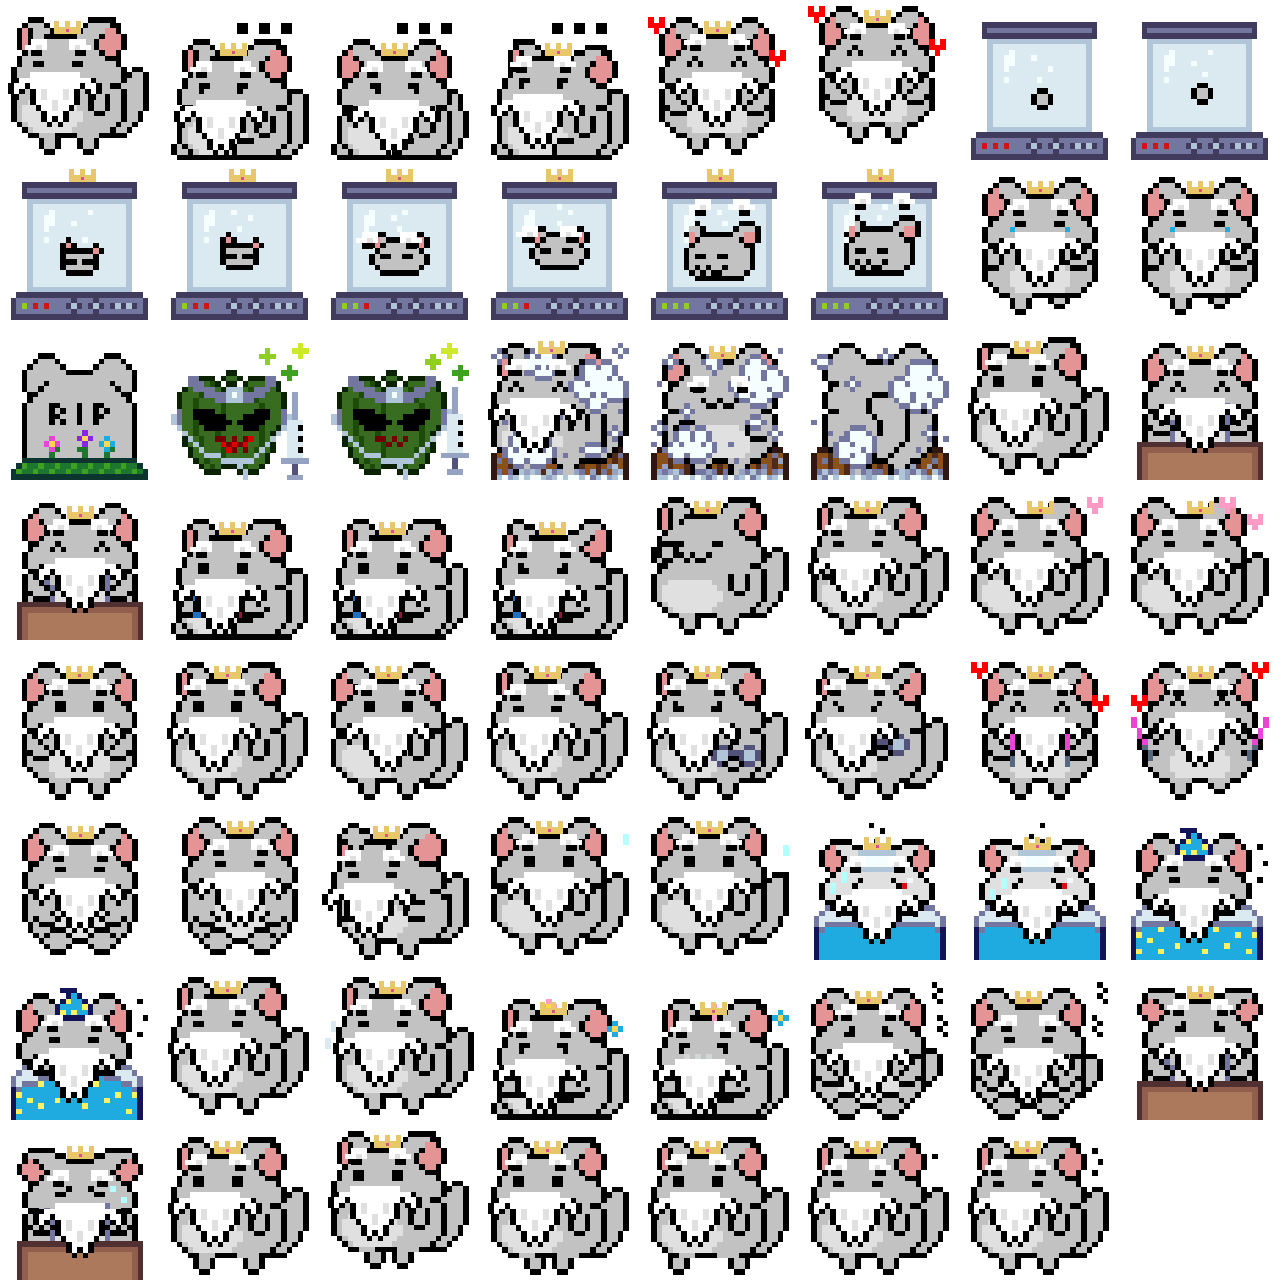
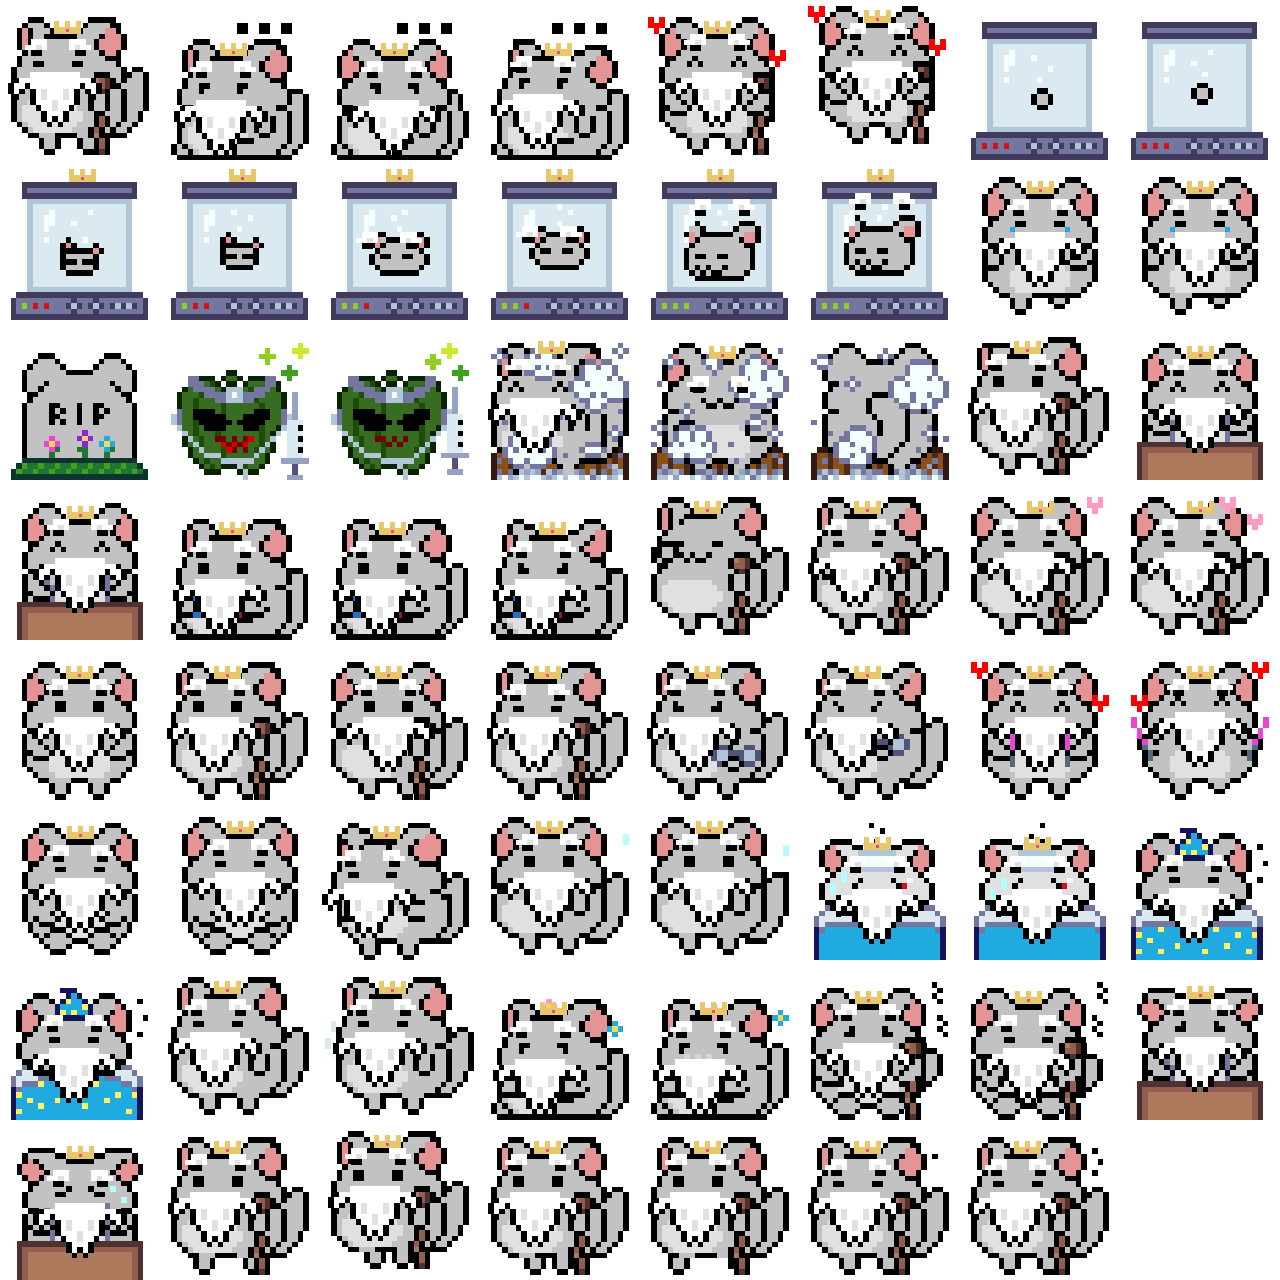
Added the Sage's Cane and Wizard Staff Art with Grip Anchors

diff --git a/src/game/scene/head.ts b/src/game/scene/head.ts
@@ -15,6 +15,13 @@
 //   • `beard` — where a sage's beard hangs (bottom-centre, like the brows):
 //     centred on the mouth, its top row the mouth's top row, so the moustache
 //     covers the mouth and the beard falls down the chest.
+//   • `cane` — where a sage's cane stands (bottom-centre, like the beard): its
+//     ferrule on the floor beside the feet, its shaft running up through the
+//     near paw and its knob resting on top of it. `null` on every frame whose
+//     paws are busy — eating, at tea, gaming, grooming, bathing, meditating,
+//     asleep, dead — and on the free-pawed frames that only ever play beside
+//     those, so the cane never pops in and out mid-clip. `behind` would mark a
+//     pose that holds it behind the body; no frame does yet.
 //   • `nightcap` — the art already wears a hat here, so no cosmetic goes on
 //     top of it.
 //
@@ -23,7 +30,8 @@
 //
 // Generated by `npm run head-anchors` and reviewed on its contact sheet; the
 // null frames are hand-set, as are the dust bath's second and third frames
-// and groom1, where the dust or a paw hides an eye or the mouth.
+// and groom1, where the dust or a paw hides an eye or the mouth. The cane's
+// points come from the script's hand-set grip table, frame by frame.
 
 import type { FrameName } from "../atlas.generated";
 
@@ -32,16 +40,17 @@ export type HeadAnchor = {
   y: number;
   brows: { x: number; y: number };
   beard: { x: number; y: number };
+  cane: { x: number; y: number; behind?: true } | null;
   nightcap?: true;
 };
 
 export const HEAD_ANCHORS: Partial<Record<FrameName, HeadAnchor | null>> = {
-  blink: { x: -13, y: -126, brows: { x: -22, y: -104 }, beard: { x: -25, y: -33 } },
-  bored1: { x: -7, y: -104, brows: { x: -17, y: -82 }, beard: { x: -19, y: -5 } },
-  bored2: { x: -6, y: -104, brows: { x: -6, y: -82 }, beard: { x: -6, y: -5 } },
-  bored3: { x: -2, y: -104, brows: { x: -17, y: -87 }, beard: { x: -22, y: -11 } },
-  cheer1: { x: -2, y: -126, brows: { x: -2, y: -109 }, beard: { x: -2, y: -33 } },
-  cheer2: { x: -2, y: -137, brows: { x: -2, y: -120 }, beard: { x: -2, y: -44 } },
+  blink: { x: -13, y: -126, brows: { x: -22, y: -104 }, beard: { x: -25, y: -33 }, cane: { x: 22, y: -5 } },
+  bored1: { x: -7, y: -104, brows: { x: -17, y: -82 }, beard: { x: -19, y: -5 }, cane: null },
+  bored2: { x: -6, y: -104, brows: { x: -6, y: -82 }, beard: { x: -6, y: -5 }, cane: null },
+  bored3: { x: -2, y: -104, brows: { x: -17, y: -87 }, beard: { x: -22, y: -11 }, cane: null },
+  cheer1: { x: -2, y: -126, brows: { x: -2, y: -109 }, beard: { x: -2, y: -33 }, cane: { x: 42, y: -5 } },
+  cheer2: { x: -2, y: -137, brows: { x: -2, y: -120 }, beard: { x: -2, y: -44 }, cane: { x: 42, y: -16 } },
   clone1: null,
   clone2: null,
   clone3: null,
@@ -50,53 +59,53 @@ export const HEAD_ANCHORS: Partial<Record<FrameName, HeadAnchor | null>> = {
   clone6: null,
   clone7: null,
   clone8: null,
-  cry1: { x: 0, y: -126, brows: { x: 0, y: -104 }, beard: { x: 0, y: -33 } },
-  cry2: { x: 0, y: -126, brows: { x: 0, y: -104 }, beard: { x: 0, y: -33 } },
+  cry1: { x: 0, y: -126, brows: { x: 0, y: -104 }, beard: { x: 0, y: -33 }, cane: null },
+  cry2: { x: 0, y: -126, brows: { x: 0, y: -104 }, beard: { x: 0, y: -33 }, cane: null },
   dead1: null,
   drpepper1: null,
   drpepper2: null,
-  dustbath1: { x: -9, y: -126, brows: { x: -22, y: -104 }, beard: { x: -25, y: -27 } },
-  dustbath2: { x: 2, y: -121, brows: { x: 0, y: -102 }, beard: { x: 0, y: -27 } }, // one eye under the dust: brows over it, beard on the mouth
-  dustbath3: { x: 2, y: -121, brows: { x: 0, y: -102 }, beard: { x: 0, y: -27 } }, // dustbath2's pose, head under the dust
-  earTwitch: { x: -13, y: -126, brows: { x: -22, y: -109 }, beard: { x: -25, y: -33 } },
-  eat1: { x: 0, y: -121, brows: { x: 0, y: -104 }, beard: { x: 0, y: -27 } },
-  eat2: { x: 0, y: -121, brows: { x: 0, y: -104 }, beard: { x: 0, y: -27 } },
-  game1: { x: -7, y: -105, brows: { x: -16, y: -82 }, beard: { x: -19, y: -6 } },
-  game2: { x: -7, y: -105, brows: { x: -16, y: -82 }, beard: { x: -19, y: -6 } },
-  game3: { x: -7, y: -105, brows: { x: -16, y: -82 }, beard: { x: -19, y: -6 } },
-  groom1: { x: -13, y: -126, brows: { x: -22, y: -104 }, beard: { x: -25, y: -33 } }, // groom2's head, one eye and the mouth behind the paw
-  groom2: { x: -13, y: -126, brows: { x: -22, y: -104 }, beard: { x: -25, y: -33 } },
-  heart1: { x: 0, y: -126, brows: { x: -11, y: -104 }, beard: { x: -11, y: -33 } },
-  heart2: { x: 0, y: -126, brows: { x: -11, y: -104 }, beard: { x: -11, y: -33 } },
-  idleFront1: { x: 0, y: -121, brows: { x: 0, y: -104 }, beard: { x: 0, y: -28 } },
-  idleSide1: { x: -12, y: -121, brows: { x: -22, y: -104 }, beard: { x: -25, y: -28 } },
-  idleSide2: { x: -11, y: -121, brows: { x: -11, y: -104 }, beard: { x: -11, y: -28 } },
-  idleSide3: { x: -12, y: -121, brows: { x: -22, y: -99 }, beard: { x: -25, y: -28 } },
-  lift1: { x: -12, y: -121, brows: { x: -22, y: -104 }, beard: { x: -25, y: -28 } },
-  lift2: { x: -12, y: -121, brows: { x: -22, y: -104 }, beard: { x: -27, y: -28 } },
-  lights1: { x: 0, y: -121, brows: { x: 0, y: -104 }, beard: { x: 0, y: -28 } },
-  lights2: { x: 0, y: -121, brows: { x: 0, y: -104 }, beard: { x: 0, y: -33 } },
-  meditate1: { x: 0, y: -121, brows: { x: 0, y: -98 }, beard: { x: 0, y: -27 } },
-  meditate2: { x: 0, y: -126, brows: { x: 0, y: -104 }, beard: { x: 0, y: -33 } },
-  pekori: { x: -14, y: -121, brows: { x: -28, y: -93 }, beard: { x: -31, y: -22 } },
-  shiver1: { x: -11, y: -126, brows: { x: -11, y: -109 }, beard: { x: -11, y: -33 } },
-  shiver2: { x: -11, y: -126, brows: { x: -11, y: -109 }, beard: { x: -11, y: -33 } },
-  sick1: { x: -3, y: -110, brows: { x: -3, y: -87 }, beard: { x: -3, y: -16 } },
-  sick2: { x: -3, y: -110, brows: { x: -3, y: -87 }, beard: { x: -3, y: -16 } },
-  sleep1: { x: -5, y: -116, brows: { x: -5, y: -88 }, beard: { x: -5, y: -17 }, nightcap: true },
-  sleep2: { x: -5, y: -116, brows: { x: -5, y: -88 }, beard: { x: -5, y: -17 }, nightcap: true },
-  sneeze1: { x: -13, y: -126, brows: { x: -22, y: -104 }, beard: { x: -25, y: -33 } },
-  sneeze2: { x: -7, y: -126, brows: { x: -16, y: -104 }, beard: { x: -19, y: -33 } },
-  tea1: { x: -7, y: -105, brows: { x: -17, y: -82 }, beard: { x: -20, y: -6 } },
-  tea2: { x: -7, y: -105, brows: { x: -17, y: -82 }, beard: { x: -20, y: -6 } },
-  tired1: { x: -11, y: -116, brows: { x: -11, y: -99 }, beard: { x: -11, y: -22 } },
-  tired2: { x: -11, y: -116, brows: { x: -11, y: -88 }, beard: { x: -11, y: -17 } },
-  unhappyEat1: { x: 0, y: -121, brows: { x: 0, y: -104 }, beard: { x: 0, y: -28 } },
-  unhappyEat2: { x: 0, y: -121, brows: { x: 0, y: -93 }, beard: { x: 0, y: -22 } },
-  walk1: { x: -13, y: -126, brows: { x: -22, y: -109 }, beard: { x: -25, y: -33 } },
-  walk2: { x: -13, y: -132, brows: { x: -22, y: -115 }, beard: { x: -25, y: -39 } },
-  walk3: { x: -13, y: -126, brows: { x: -22, y: -109 }, beard: { x: -25, y: -33 } },
-  walk4: { x: -13, y: -126, brows: { x: -22, y: -109 }, beard: { x: -25, y: -33 } },
-  yawn1: { x: -13, y: -126, brows: { x: -22, y: -104 }, beard: { x: -25, y: -33 } },
-  yawn2: { x: -13, y: -126, brows: { x: -22, y: -104 }, beard: { x: -25, y: -33 } },
+  dustbath1: { x: -9, y: -126, brows: { x: -22, y: -104 }, beard: { x: -25, y: -27 }, cane: null },
+  dustbath2: { x: 2, y: -121, brows: { x: 0, y: -102 }, beard: { x: 0, y: -27 }, cane: null }, // one eye under the dust: brows over it, beard on the mouth
+  dustbath3: { x: 2, y: -121, brows: { x: 0, y: -102 }, beard: { x: 0, y: -27 }, cane: null }, // dustbath2's pose, head under the dust
+  earTwitch: { x: -13, y: -126, brows: { x: -22, y: -109 }, beard: { x: -25, y: -33 }, cane: { x: 22, y: -5 } },
+  eat1: { x: 0, y: -121, brows: { x: 0, y: -104 }, beard: { x: 0, y: -27 }, cane: null },
+  eat2: { x: 0, y: -121, brows: { x: 0, y: -104 }, beard: { x: 0, y: -27 }, cane: null },
+  game1: { x: -7, y: -105, brows: { x: -16, y: -82 }, beard: { x: -19, y: -6 }, cane: null },
+  game2: { x: -7, y: -105, brows: { x: -16, y: -82 }, beard: { x: -19, y: -6 }, cane: null },
+  game3: { x: -7, y: -105, brows: { x: -16, y: -82 }, beard: { x: -19, y: -6 }, cane: null },
+  groom1: { x: -13, y: -126, brows: { x: -22, y: -104 }, beard: { x: -25, y: -33 }, cane: { x: 22, y: -5 } }, // groom2's head, one eye and the mouth behind the paw
+  groom2: { x: -13, y: -126, brows: { x: -22, y: -104 }, beard: { x: -25, y: -33 }, cane: { x: 22, y: -5 } },
+  heart1: { x: 0, y: -126, brows: { x: -11, y: -104 }, beard: { x: -11, y: -33 }, cane: { x: 22, y: -5 } },
+  heart2: { x: 0, y: -126, brows: { x: -11, y: -104 }, beard: { x: -11, y: -33 }, cane: { x: 22, y: -5 } },
+  idleFront1: { x: 0, y: -121, brows: { x: 0, y: -104 }, beard: { x: 0, y: -28 }, cane: null }, // the greeting's middle frame, cane-free like the bows around it
+  idleSide1: { x: -12, y: -121, brows: { x: -22, y: -104 }, beard: { x: -25, y: -28 }, cane: { x: 23, y: 0 } },
+  idleSide2: { x: -11, y: -121, brows: { x: -11, y: -104 }, beard: { x: -11, y: -28 }, cane: { x: 23, y: 0 } },
+  idleSide3: { x: -12, y: -121, brows: { x: -22, y: -99 }, beard: { x: -25, y: -28 }, cane: { x: 23, y: 0 } },
+  lift1: { x: -12, y: -121, brows: { x: -22, y: -104 }, beard: { x: -25, y: -28 }, cane: null },
+  lift2: { x: -12, y: -121, brows: { x: -22, y: -104 }, beard: { x: -27, y: -28 }, cane: null },
+  lights1: { x: 0, y: -121, brows: { x: 0, y: -104 }, beard: { x: 0, y: -28 }, cane: null },
+  lights2: { x: 0, y: -121, brows: { x: 0, y: -104 }, beard: { x: 0, y: -33 }, cane: null },
+  meditate1: { x: 0, y: -121, brows: { x: 0, y: -98 }, beard: { x: 0, y: -27 }, cane: null },
+  meditate2: { x: 0, y: -126, brows: { x: 0, y: -104 }, beard: { x: 0, y: -33 }, cane: null },
+  pekori: { x: -14, y: -121, brows: { x: -28, y: -93 }, beard: { x: -31, y: -22 }, cane: null }, // the bow puts the eyes on the grip and the beard over it
+  shiver1: { x: -11, y: -126, brows: { x: -11, y: -109 }, beard: { x: -11, y: -33 }, cane: null },
+  shiver2: { x: -11, y: -126, brows: { x: -11, y: -109 }, beard: { x: -11, y: -33 }, cane: null },
+  sick1: { x: -3, y: -110, brows: { x: -3, y: -87 }, beard: { x: -3, y: -16 }, cane: null },
+  sick2: { x: -3, y: -110, brows: { x: -3, y: -87 }, beard: { x: -3, y: -16 }, cane: null },
+  sleep1: { x: -5, y: -116, brows: { x: -5, y: -88 }, beard: { x: -5, y: -17 }, cane: null, nightcap: true },
+  sleep2: { x: -5, y: -116, brows: { x: -5, y: -88 }, beard: { x: -5, y: -17 }, cane: null, nightcap: true },
+  sneeze1: { x: -13, y: -126, brows: { x: -22, y: -104 }, beard: { x: -25, y: -33 }, cane: null },
+  sneeze2: { x: -7, y: -126, brows: { x: -16, y: -104 }, beard: { x: -19, y: -33 }, cane: null },
+  tea1: { x: -7, y: -105, brows: { x: -17, y: -82 }, beard: { x: -20, y: -6 }, cane: null },
+  tea2: { x: -7, y: -105, brows: { x: -17, y: -82 }, beard: { x: -20, y: -6 }, cane: null },
+  tired1: { x: -11, y: -116, brows: { x: -11, y: -99 }, beard: { x: -11, y: -22 }, cane: { x: 34, y: 0 } },
+  tired2: { x: -11, y: -116, brows: { x: -11, y: -88 }, beard: { x: -11, y: -17 }, cane: { x: 34, y: 0 } },
+  unhappyEat1: { x: 0, y: -121, brows: { x: 0, y: -104 }, beard: { x: 0, y: -28 }, cane: null },
+  unhappyEat2: { x: 0, y: -121, brows: { x: 0, y: -93 }, beard: { x: 0, y: -22 }, cane: null },
+  walk1: { x: -13, y: -126, brows: { x: -22, y: -109 }, beard: { x: -25, y: -33 }, cane: { x: 22, y: -5 } },
+  walk2: { x: -13, y: -132, brows: { x: -22, y: -115 }, beard: { x: -25, y: -39 }, cane: { x: 22, y: -11 } },
+  walk3: { x: -13, y: -126, brows: { x: -22, y: -109 }, beard: { x: -25, y: -33 }, cane: { x: 22, y: -5 } },
+  walk4: { x: -13, y: -126, brows: { x: -22, y: -109 }, beard: { x: -25, y: -33 }, cane: { x: 22, y: -5 } },
+  yawn1: { x: -13, y: -126, brows: { x: -22, y: -104 }, beard: { x: -25, y: -33 }, cane: { x: 22, y: -5 } },
+  yawn2: { x: -13, y: -126, brows: { x: -22, y: -104 }, beard: { x: -25, y: -33 }, cane: { x: 22, y: -5 } },
 };

diff --git a/scripts/head-anchors.ts b/scripts/head-anchors.ts
@@ -1,10 +1,10 @@
 // Finds where the head is on every pet frame, for the table in
 // src/game/scene/head.ts (SPEC §10.5). Run `npm run head-anchors` after adding
 // pet frames; it prints candidate entries to paste, and a contact sheet with
-// the crown, an elder's brow tufts and a sage's beard drawn on every frame for a look before
-// committing.
+// the crown, an elder's brow tufts, a sage's beard and cane drawn on every
+// frame for a look before committing.
 //
-// Three things are read off the art:
+// Three things are read off the art, and one is set by hand:
 //
 //   • The hat anchor. The inner ears are pink in every frame the pet is drawn
 //     in; the two pink blobs in the top half of a frame are the ears, and the
@@ -23,6 +23,13 @@
 //   • A nightcap. When the skyline at the anchor column is a vivid colour the
 //     pet itself never is, the art already wears a hat, and a cosmetic drawn
 //     there would land on top of it.
+//   • The cane. A sage's cane stands in the near paw — the hanging arm at the
+//     flank of the side view, the right paw of the front view — with its knob
+//     resting on top of the paw and its shaft coming out underneath, down to
+//     the floor beside the feet. The paw is not found: CANE_GRIPS below says,
+//     frame by frame, which art column the shaft runs down and which row the
+//     paw's bottom outline sits on, and leaves out every frame whose paws are
+//     busy.
 //
 // Frames with no ears (the egg, the gravestone, the medicine) get no
 // candidate and wear nothing; a frame whose eyes or mouth are hidden prints a
@@ -40,6 +47,56 @@ const CONTACT = new URL("./head-anchors-contact.png", import.meta.url);
 const BROW_GAP = 5;
 const BROWS = SPRITE_FRAMES.elderBrows;
 const BEARD = SPRITE_FRAMES.sageBeard;
+const CANE = SPRITE_FRAMES.sageCane;
+/** The art is drawn at this many frame pixels per art pixel (scripts/atlas.ts). */
+const ART_SCALE = 5.5;
+/** The cane sprite's column its shaft runs down, and its row the paw's bottom outline sits on. */
+const CANE_SHAFT = { col: 2, pawRow: 7 };
+const CANE_ROWS = 15;
+
+/**
+ * Where the near paw grips the cane, in art pixels of the frame: `col` is the
+ * column the shaft runs down, inside the paw, and `paw` the row of the paw's
+ * bottom outline. The sprite leaves its rows above that clear, so the frame's
+ * own paw shows through between the knob and the shaft.
+ *
+ * Every frame left out gets `cane: null`. Most have their paws busy — eating,
+ * drinking, gaming, grooming with both paws, holding the soap, bowing with
+ * the paws down, cheering with them up, hugging themselves, under the quilt or
+ * the dust, or dead. cry, lights, shiver and sneeze keep their paws free but
+ * play only beside busy frames (hungry, petted, dirty, sick), where a cane
+ * that came and went each loop would read as a glitch. groom keeps it: the far
+ * paw grooms, the near one holds on. pekori can't: the bow brings the closed
+ * eyes down onto the grip and the beard over it, so the whole greeting clip
+ * (pekori, idleFront1, pekori) goes without, rather than the cane popping in
+ * on the middle frame.
+ *
+ * The sprite's columns are five art pixels wide, so `col - 2` must be even
+ * for its cells to land on the frame's 5/6px cadence.
+ */
+const CANE_GRIPS: Partial<Record<FrameName, { col: number; paw: number }>> = {
+  blink: { col: 16, paw: 17 },
+  cheer1: { col: 20, paw: 17 },
+  cheer2: { col: 20, paw: 17 },
+  earTwitch: { col: 16, paw: 17 },
+  groom1: { col: 16, paw: 17 },
+  groom2: { col: 16, paw: 17 },
+  heart1: { col: 16, paw: 17 },
+  heart2: { col: 16, paw: 17 },
+  idleSide1: { col: 16, paw: 17 },
+  idleSide2: { col: 16, paw: 17 },
+  idleSide3: { col: 16, paw: 17 },
+  // The tired slump drops the paw a row; the cane stays planted and its
+  // shaft covers the paw's bottom outline instead.
+  tired1: { col: 18, paw: 17 },
+  tired2: { col: 18, paw: 17 },
+  walk1: { col: 16, paw: 17 },
+  walk2: { col: 16, paw: 17 },
+  walk3: { col: 16, paw: 17 },
+  walk4: { col: 16, paw: 17 },
+  yawn1: { col: 16, paw: 17 },
+  yawn2: { col: 16, paw: 17 },
+};
 
 const sheet = PNG.sync.read(readFileSync(SHEET));
 const { at } = rasterOf(sheet);
@@ -64,13 +121,35 @@ const petFrames = (): FrameName[] => {
 };
 
 type Point = { x: number; y: number };
-type Candidate = { name: FrameName; hat: (Point & { nightcap: boolean }) | null; brows: Point | null; beard: Point | null };
+type Candidate = {
+  name: FrameName;
+  hat: (Point & { nightcap: boolean }) | null;
+  brows: Point | null;
+  beard: Point | null;
+  cane: Point | null;
+};
+
+/**
+ * The cane's bottom-centre in head space, from where the paw grips it: its
+ * sprite is placed so its shaft column and paw row land on the frame's own
+ * art cells. A native frame can be a pixel shorter than its art rows add up
+ * to, and the ferrule then stops at the frame's bottom edge rather than
+ * under it.
+ */
+const cane = (name: FrameName): Point | null => {
+  const grip = CANE_GRIPS[name];
+  if (!grip) return null;
+  const f = SPRITE_FRAMES[name];
+  const left = Math.round((grip.col - CANE_SHAFT.col) * ART_SCALE);
+  const bottom = Math.min(Math.round((grip.paw - CANE_SHAFT.pawRow + CANE_ROWS) * ART_SCALE), f.h);
+  return { x: left + CANE.w / 2 - Math.floor(f.w / 2), y: bottom - f.h };
+};
 
 const candidate = (name: FrameName): Candidate => {
   const f = SPRITE_FRAMES[name];
   const frame = frameOf(name);
   const dip = earDip(frame);
-  if (!dip) return { name, hat: null, brows: null, beard: null };
+  if (!dip) return { name, hat: null, brows: null, beard: null, cane: null };
   const { centre, floor } = dip;
   let crown = 0;
   while (crown < f.h && frame.at(centre, crown)[3] === 0) crown++;
@@ -89,6 +168,7 @@ const candidate = (name: FrameName): Candidate => {
     brows: pair && toHeadSpace((centreOf(pair[0]) + centreOf(pair[1])) / 2, Math.max(pair[0].y0 - BROW_GAP, floor + BROWS.h)),
     // Bottom-centre like the brows, so the beard's top row is the mouth's.
     beard: lips && toHeadSpace(centreOf(lips), lips.y0 + BEARD.h),
+    cane: cane(name),
   };
 };
 
@@ -123,7 +203,9 @@ const contactSheet = (candidates: Candidate[]): void => {
     blit(f.x, f.y, f.w, f.h, ox, oy);
     const footX = ox + Math.floor(f.w / 2);
     const footY = oy + f.h;
-    // The tufts and the beard as the atlas draws them: bottom-centre on their points.
+    // The cane, the tufts and the beard as the atlas draws them: bottom-centre
+    // on their points, the cane underneath so the beard falls over it.
+    if (c.cane) blit(CANE.x, CANE.y, CANE.w, CANE.h, footX + c.cane.x - CANE.w / 2, footY + c.cane.y - CANE.h);
     if (c.brows) blit(BROWS.x, BROWS.y, BROWS.w, BROWS.h, footX + c.brows.x - BROWS.w / 2, footY + c.brows.y - BROWS.h);
     if (c.beard) blit(BEARD.x, BEARD.y, BEARD.w, BEARD.h, footX + c.beard.x - BEARD.w / 2, footY + c.beard.y - BEARD.h);
     if (!c.hat || c.hat.nightcap) return;
@@ -140,10 +222,11 @@ const contactSheet = (candidates: Candidate[]): void => {
   writeFileSync(CONTACT, PNG.sync.write(out));
 };
 
-const entry = ({ name, hat, brows, beard }: Candidate): string => {
+const entry = ({ name, hat, brows, beard, cane }: Candidate): string => {
   if (!hat) return `  ${name}: null, // no ears in this frame`;
   const point = (p: Point | null, hidden: string): string => (p ? `{ x: ${p.x}, y: ${p.y} }` : `null /* ${hidden} hidden: set by hand */`);
   const fields = [`x: ${hat.x}`, `y: ${hat.y}`, `brows: ${point(brows, "eyes")}`, `beard: ${point(beard, "mouth")}`];
+  fields.push(`cane: ${cane ? `{ x: ${cane.x}, y: ${cane.y} }` : "null"}`);
   if (hat.nightcap) fields.push("nightcap: true");
   return `  ${name}: { ${fields.join(", ")} },`;
 };
